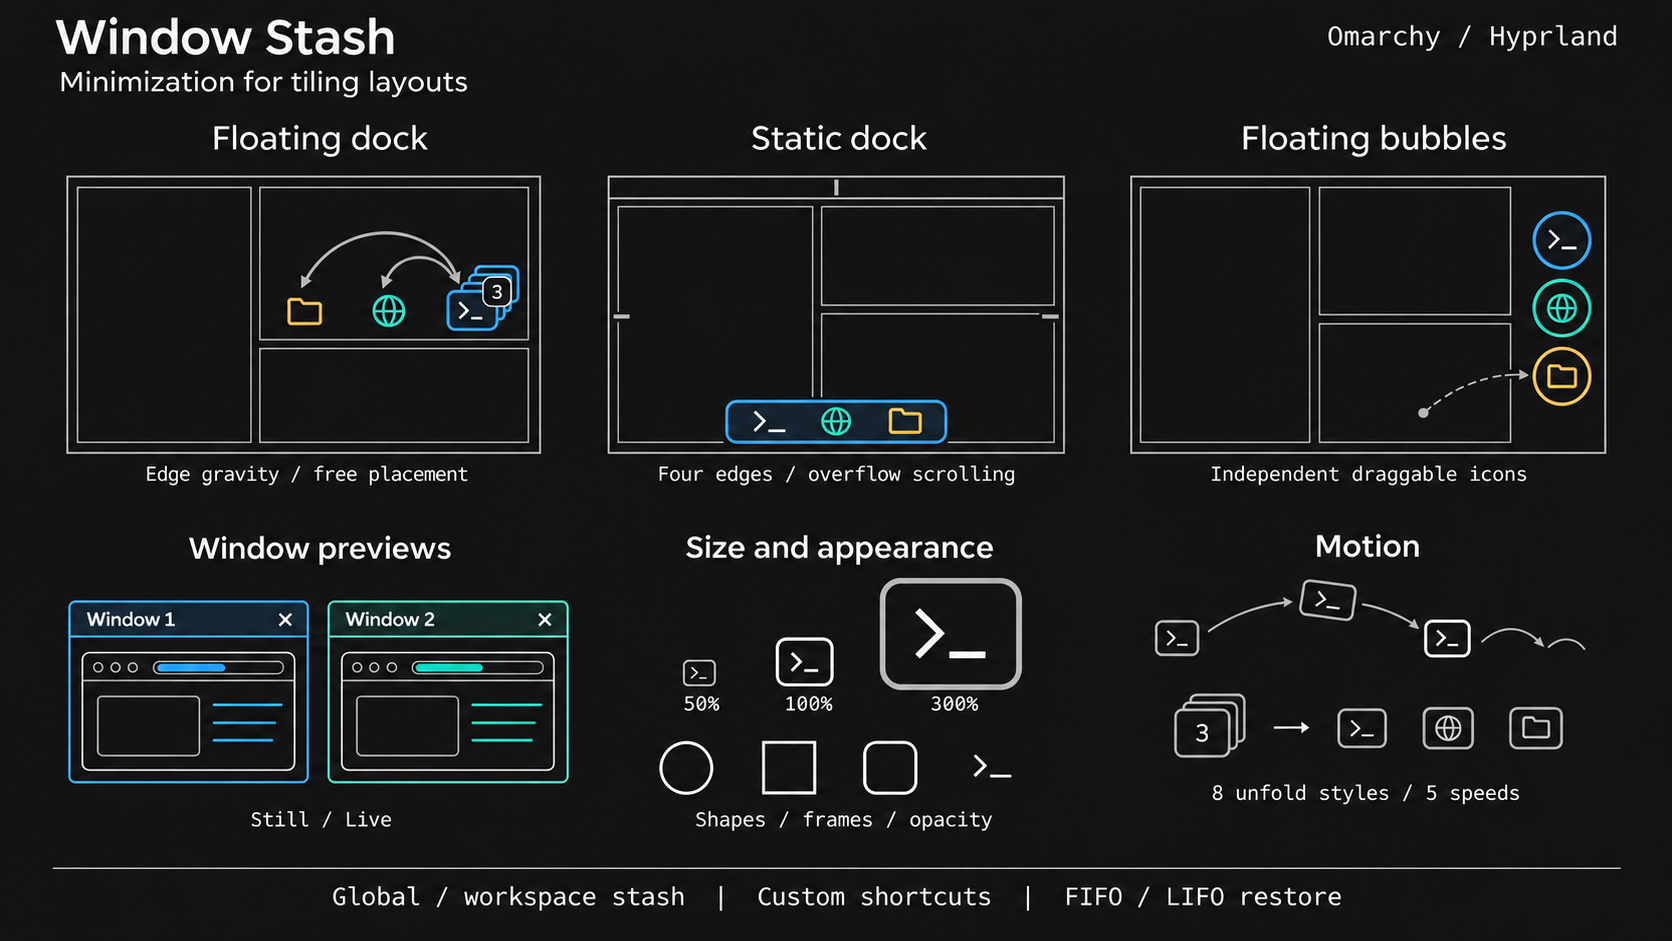
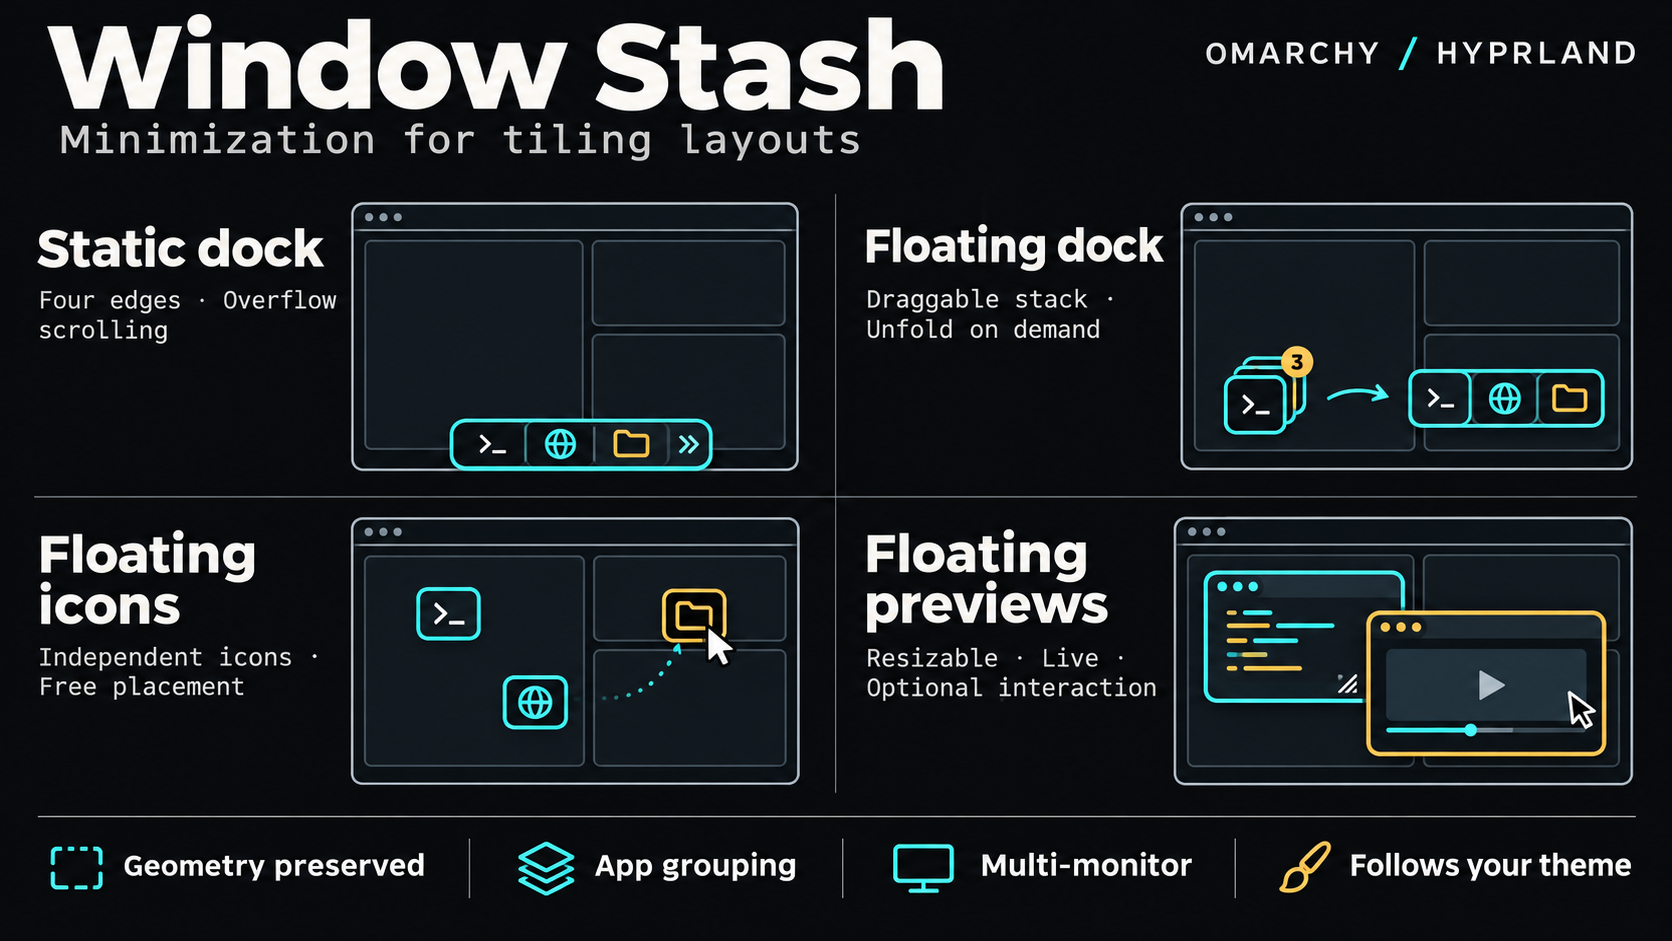
Update title image to highlight all four stash modes

diff --git a/README.md b/README.md
@@ -1,6 +1,6 @@
 # Window Stash
 
-![Static dock, floating dock, floating icons and window previews.](preview.png)
+![Window Stash: static dock, floating dock, floating icons and floating previews, with geometry preservation, app grouping, multi-monitor support and theme matching.](preview.png)
 
 Window minimization for **tiling layouts** in Omarchy/Hyprland. Windows stay running
 in a private workspace and restore to the original or current workspace. Floating
